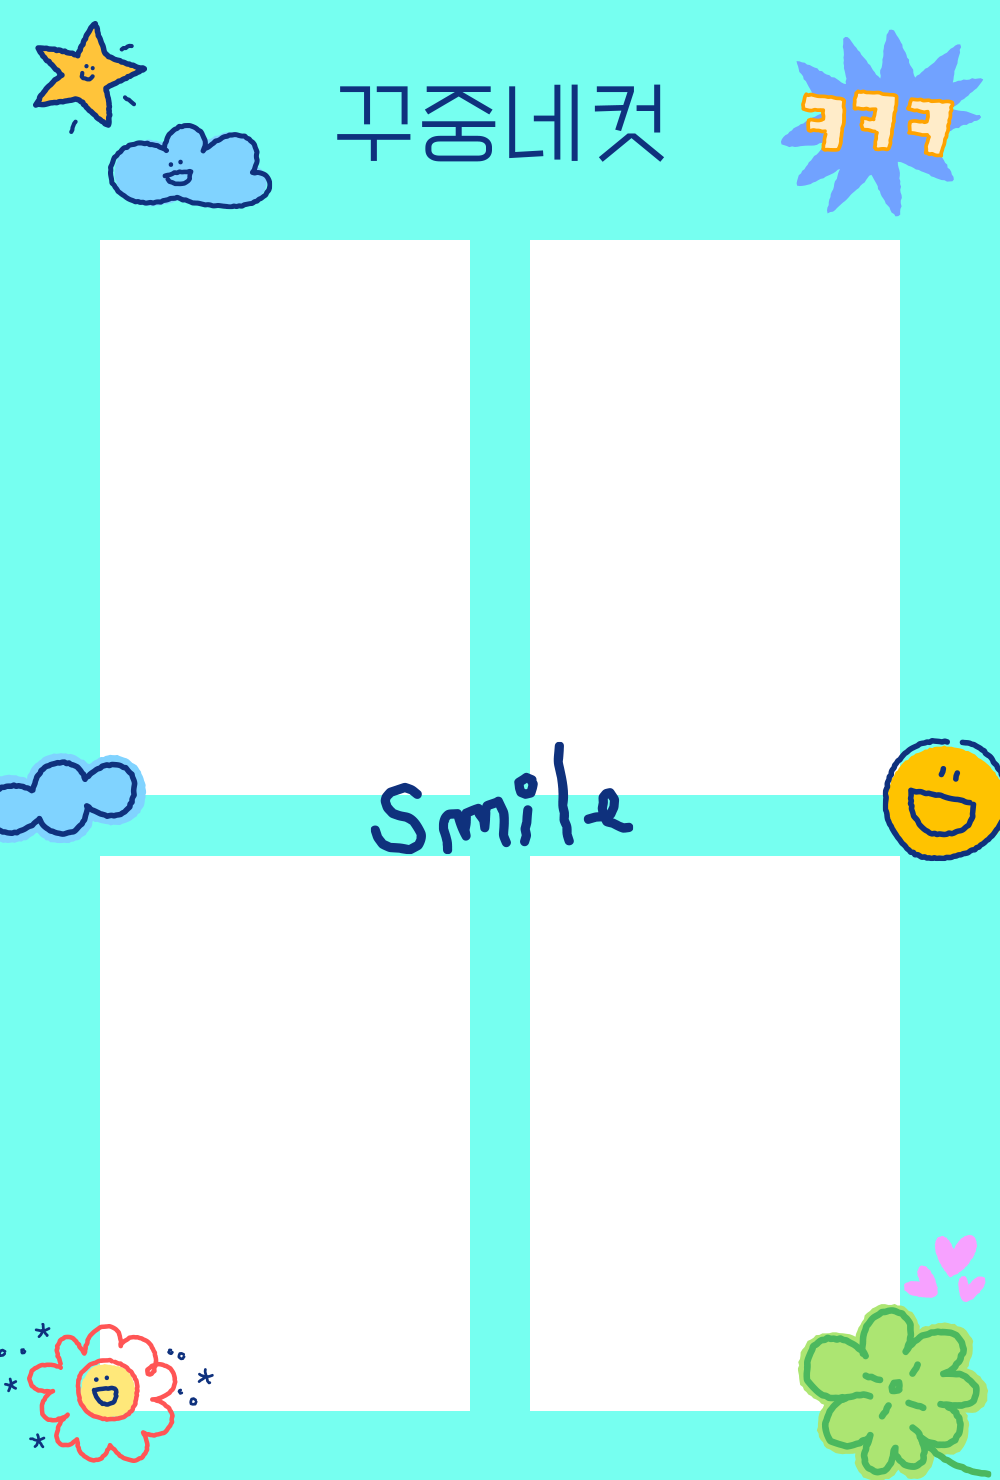
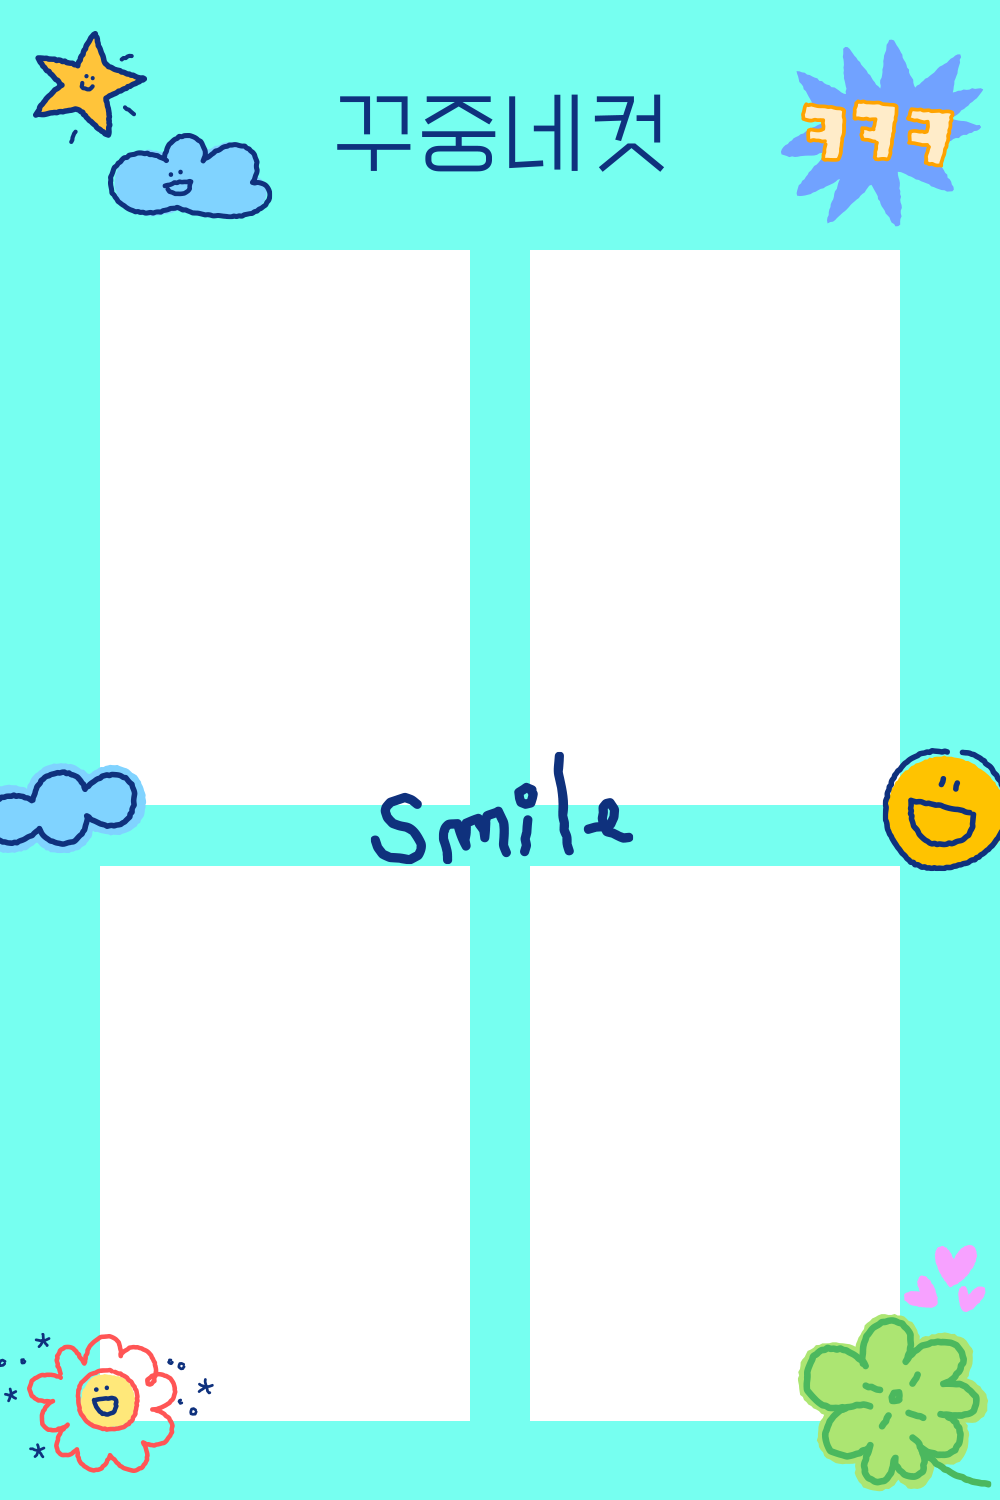
Revert "chore: add function"
This reverts commit fae0ff0391eb15d7bdba1a394bc13df7f9783c16.

diff --git a/fe/src/pages/Photoselect.tsx b/fe/src/pages/Photoselect.tsx
@@ -39,7 +39,7 @@ export default function Photoselect() {
   );
 
   // 타이머
-  const { sec,pause } = useCountdown({
+  const { sec } = useCountdown({
     seconds: 10,
     autostart: true,
     onExpire: async()=>{
@@ -126,7 +126,7 @@ export default function Photoselect() {
   // 프레임(2:3) 컨테이너의 실제 너비/높이
   const frameW = tileW > 0 ? tileW * 2 + GAP + PAD * 2 : 0;
   //const frameH = frameW > 0 ? Math.round(frameW * 1.5) : 0; // (참고용, 현재 미사용)
-  let notClick = true;
+
   return (
     <div className="relative w-screen h-screen bg-[#CFAB8D]">
       {/* 흰색 인셋 박스 */}
@@ -215,13 +215,11 @@ export default function Photoselect() {
         </div>
 
         {/* 하단: Next (정확히 4장일 때만 활성화) */}
-        {notClick && isExactFour && (
+        {isExactFour && (
           <div className="absolute right-8 bottom-8 z-20">
             <button
               type="button"
               onClick={async () => {
-                pause();
-                notClick = false;
                 try {
                   const response = await saveComposedQuadAsFile(
                     { slots, photos: sortedPhotos, frameImg },

diff --git a/fe/src/lib/composePhotoQuad.ts b/fe/src/lib/composePhotoQuad.ts
@@ -68,8 +68,8 @@ export async function composeQuadImage(
   options: ComposeOptions = {}
 ): Promise<Blob> {
   const {
-    design = { w: 1000, h: 1480 },
-    base = { x: 100, y: 240, w: 370, h: 555 },
+    design = { w: 1000, h: 1500 },
+    base = { x: 100, y: 250, w: 370, h: 555 },
     gap = { x: 60, y: 61 },
     count = 4,
     drawEmptyGuide = true,

diff --git a/fe/src/components/ResponsivePhotoQuad.tsx b/fe/src/components/ResponsivePhotoQuad.tsx
@@ -35,7 +35,7 @@ type Props = {
 
 export function ResponsivePhotoQuad({
   design = { w: 1000, h: 1500 },
-  base = { x: 100, y: 240, w: 370, h: 555 },
+  base = { x: 100, y: 250, w: 370, h: 555 },
   gap = { x: 60, y: 61 },
   count = 4,
 
